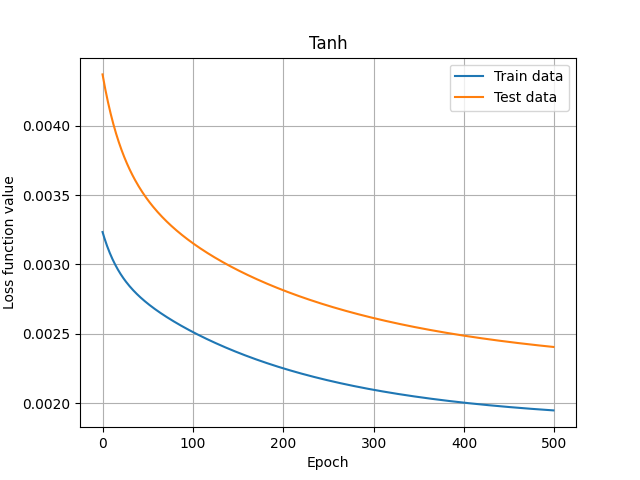
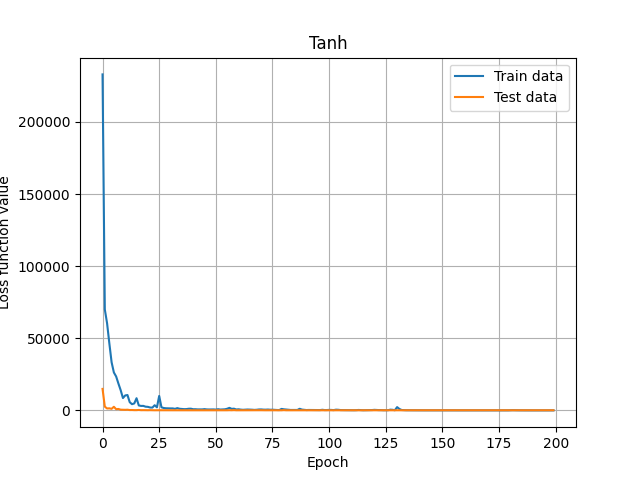
Fix data generation

diff --git a/main.py b/main.py
@@ -14,7 +14,7 @@ from neural_network.neural_network import NeuralNetwork
 
 np.random.seed(42)
 
-warnings.filterwarnings("ignore")
+# warnings.filterwarnings("ignore")
 
 
 def aim_function(x):
@@ -36,6 +36,9 @@ def create_training_and_testing_data(n_samples: int, test_size: float, n_feature
     # x_test, y_test = create_samples(aim_function, test_size)
     x, y = make_regression(n_samples=n_samples, n_features=n_features)
     x_train, x_test, y_train, y_test = train_test_split(x, y, test_size=test_size)
+
+    y_train = y_train.reshape(1, y_train.shape[0])
+    y_test = y_test.reshape(1, y_test.shape[0])
 
     return x_train, y_train, x_test, y_test
 
@@ -81,8 +84,8 @@ def test_network_and_default_implementation(
     for i in range(n):
         x_train, y_train, x_test, y_test = create_training_and_testing_data(n_samples, test_size, n_features)
 
-        nn = create_network(activation, n_features, output_size=1)
-        nn.train(x_train.T, y_train.T, learning_rate=learning_rate, epochs=epochs, minibatch_size=minibatch_size)
+        nn = create_network(activation_type, n_features, output_size=1)
+        nn.train(x_train.T, y_train, learning_rate=learning_rate, epochs=epochs, minibatch_size=minibatch_size)
         nn_scores.append(nn.score(x_test.T, y_test.T))
 
         regr = MLPRegressor().fit(x_train, y_train.ravel())
@@ -105,7 +108,7 @@ def plot_errors(path: str, errors: List[float], test_errors: List[float], title:
 
 learning_rate = 0.001
 minibatch_size = 32
-epochs = 500
+epochs = 200
 n_samples = 1000
 test_size = 0.2
 n_features = 10
@@ -113,18 +116,20 @@ n = 10  # number of experiment repetitions
 
 x_train, y_train, x_test, y_test = create_training_and_testing_data(n_samples, test_size, n_features)
 
-activation_functions = ['Tanh', 'Sigmoid', 'ReLu']
+# activation_functions = ['Tanh', 'Sigmoid', 'ReLu']
+activation_functions = ['ReLu']
+
 results_dict = {}
 
 for activation in activation_functions:
     nn = create_network(activation, n_features, output_size=1)
     errors, test_errors = nn.train(
-        x_train.T, y_train.T, learning_rate=learning_rate, epochs=epochs, minibatch_size=minibatch_size,
-        calc_test_err=True, x_test=x_test.T, y_test=y_test.T)
+        x_train.T, y_train, learning_rate=learning_rate, epochs=epochs, minibatch_size=minibatch_size,
+        calc_test_err=True, x_test=x_test.T, y_test=y_test)
 
     plot_errors(f'results/{activation}.png', errors, test_errors, activation)
 
-    print(f'{activation} score: {nn.score(x_test.T, y_test.T)}')
+    print(f'{activation} score: {nn.score(x_test.T, y_test)}')
 
     results = test_network_and_default_implementation(
         activation, epochs, learning_rate, minibatch_size, n, n_samples, test_size, n_features)

diff --git a/neural_network/neural_network.py b/neural_network/neural_network.py
@@ -45,18 +45,18 @@ class NeuralNetwork:
     @staticmethod
     def minibatch_generator(x_train: np.ndarray, y_train: np.ndarray, minibatch_size: int, shuffle: bool = False
                             ) -> Generator[Tuple[np.ndarray, np.ndarray], None, None]:
-        assert x_train.shape[0] == y_train.shape[0]
+        assert x_train.shape[1] == y_train.shape[1]
         assert isinstance(shuffle, bool), 'Shuffle must be a boolean'
 
-        indices = np.arange(x_train.shape[0])
+        indices = np.arange(x_train.shape[1])
 
         if shuffle:
             np.random.shuffle(indices)
 
-        for start in range(0, x_train.shape[0], minibatch_size):
-            end = min(start + minibatch_size, x_train.shape[0])
+        for start in range(0, x_train.shape[1], minibatch_size):
+            end = min(start + minibatch_size, x_train.shape[1])
 
-            yield x_train[indices[start: end]], y_train[indices[start: end]]
+            yield x_train[:, indices[start: end]], y_train[:, indices[start: end]]
 
     def train(self, x_train: np.ndarray, y_train: np.ndarray, epochs: int, learning_rate: float,
               minibatch_size: int, calc_test_err: bool = False, x_test: Optional[np.ndarray] = None,
@@ -68,13 +68,13 @@ class NeuralNetwork:
 
         assert isinstance(x_train, np.ndarray)
         assert isinstance(y_train, np.ndarray)
-        assert x_train.shape[0] == y_train.shape[0]
+        assert x_train.shape[1] == y_train.shape[1]
 
         assert isinstance(calc_test_err, bool)
         if calc_test_err:
             assert isinstance(x_test, np.ndarray)
             assert isinstance(y_test, np.ndarray)
-            assert x_test.shape[0] == y_test.shape[0]
+            assert x_test.shape[1] == y_test.shape[1]
 
         test_errors = []
         errors = []

diff --git a/neural_network/layers.py b/neural_network/layers.py
@@ -79,7 +79,8 @@ class ReLu(Layer):
         return output
 
     def backward(self, error: np.array, learning_rate: float):
-        return (self.input > 0) * error
+        output = (self.input > 0) * error
+        return output
 
 
 class Tanh(Layer):
